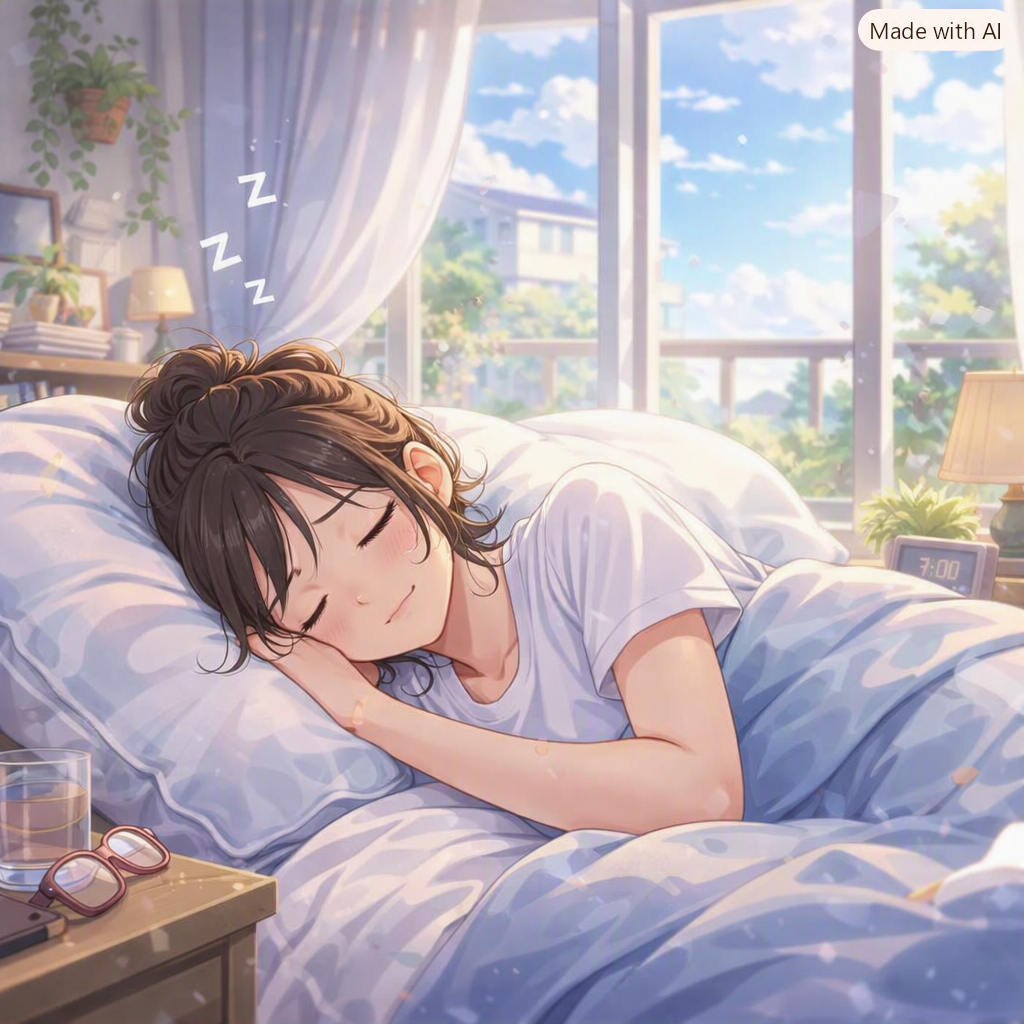
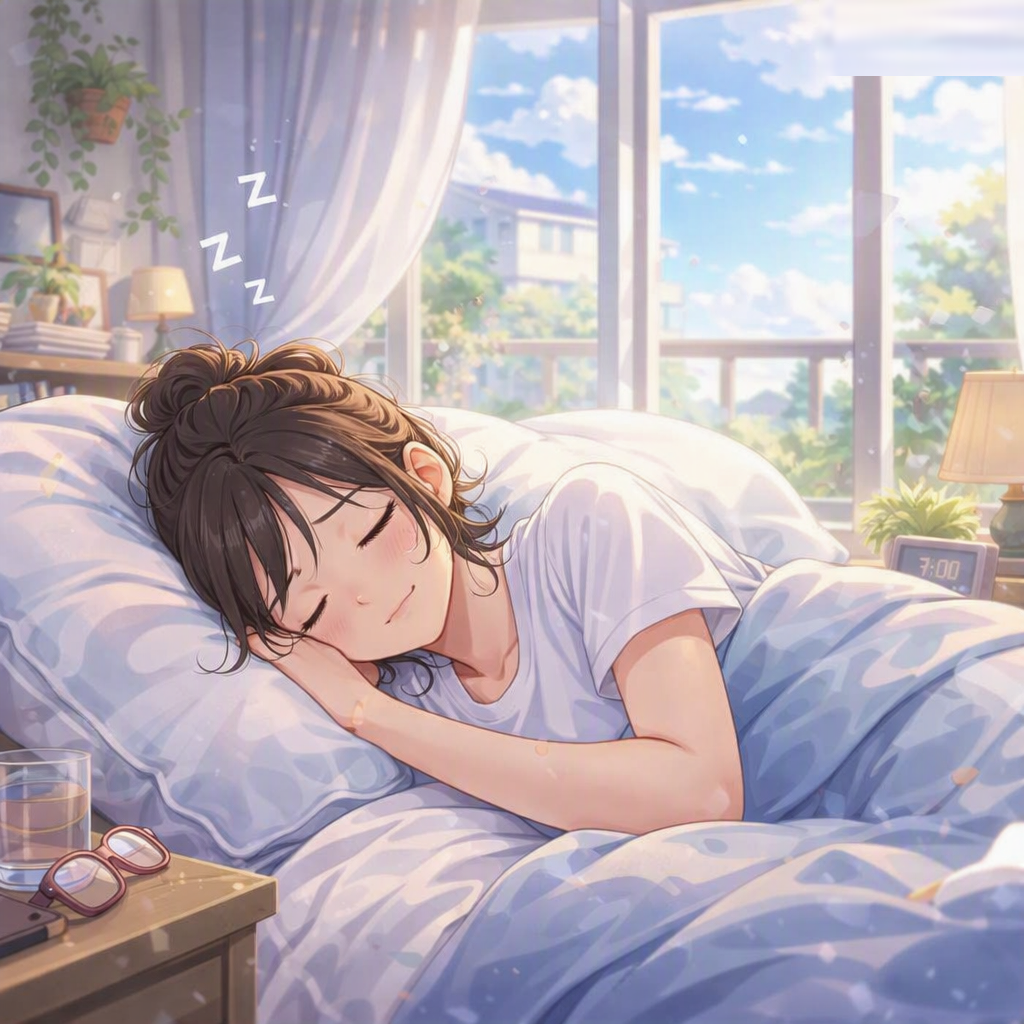
題目隨機出題 + 移除圖片上的 Made with AI 浮水印
- 每次開始挑戰都會重新隨機排列 8 題順序（Fisher-Yates shuffle），不再固定第 1~8 題順序
- 移除 6 張情境圖右上角的「Made with AI」浮水印徽章（健康管理、身體活動、充足休息、壓力調適、極端壓力工作、特殊工時與班別；不良作業環境、過重負荷原本就沒有浮水印）
  - 以鄰近區塊複製/延伸背景內容覆蓋徽章區域，複雜背景（樹葉、天花板結構）額外做局部模糊讓接縫自然融入畫面

Changed region(s): [[0.8125, 0.0, 1.0, 0.0938]]

diff --git a/index.html b/index.html
@@ -260,7 +260,7 @@
 (function(){
   "use strict";
 
-  const QUESTIONS = [
+  const QUESTIONS_DATA = [
     { title:"健康管理",       desc:"定期健康檢查與追蹤。",                     answer:"low",  img:"Image/健康管理.png" },
     { title:"身體活動",       desc:"規律適度運動。",                            answer:"low",  img:"Image/身體活動.png" },
     { title:"充足休息",       desc:"適當休息。",                                answer:"low",  img:"Image/充足休息.png" },
@@ -270,6 +270,17 @@
     { title:"不良作業環境",   desc:"異常高、低溫環境或充斥噪音等特殊作業環境。",answer:"high", img:"Image/不良作業環境.png" },
     { title:"過重負荷",       desc:"長期工作過重或短期工作超過負荷。",          answer:"high", img:"Image/過重負荷.png" }
   ];
+
+  function shuffle(arr){
+    const a = arr.slice();
+    for(let i=a.length-1;i>0;i--){
+      const j = Math.floor(Math.random()*(i+1));
+      [a[i],a[j]] = [a[j],a[i]];
+    }
+    return a;
+  }
+
+  let QUESTIONS = QUESTIONS_DATA;
 
   const startScreen = document.getElementById('startScreen');
   const quizScreen = document.getElementById('quizScreen');
@@ -345,6 +356,7 @@
 
   function startQuiz(){
     clearAdvanceTimer();
+    QUESTIONS = shuffle(QUESTIONS_DATA);
     currentIndex = 0;
     score = 0;
     showScreen(quizScreen);
